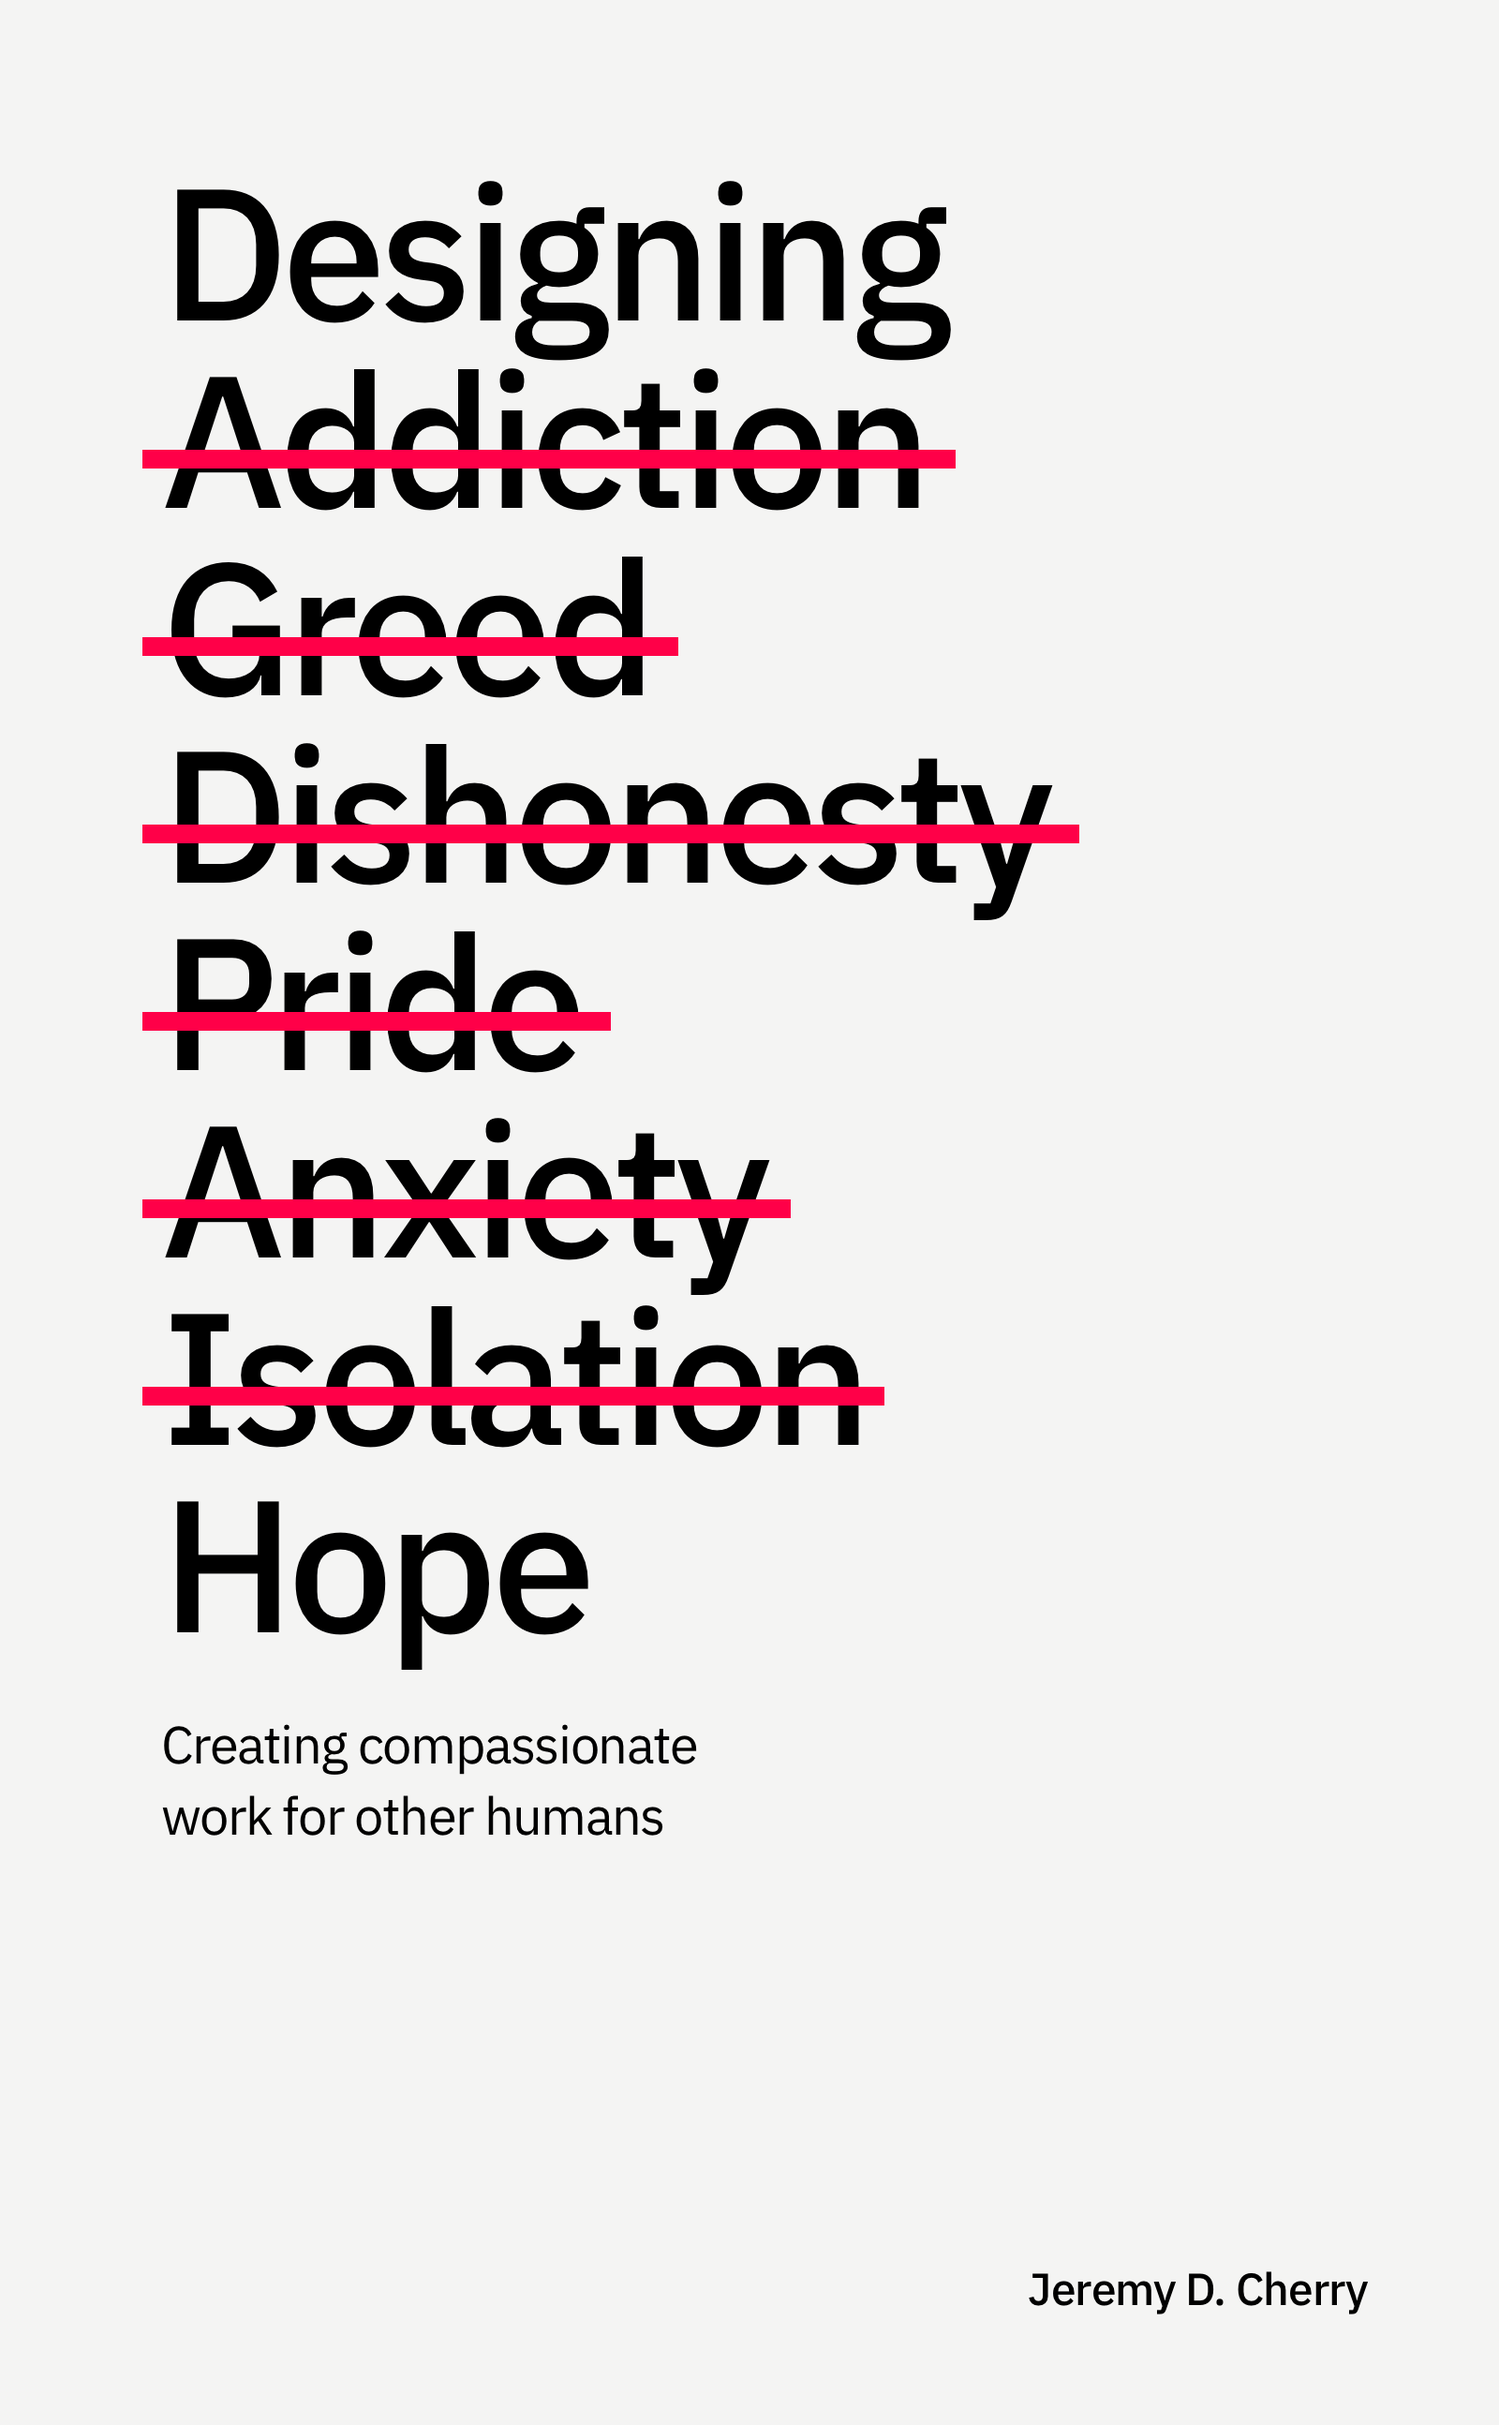
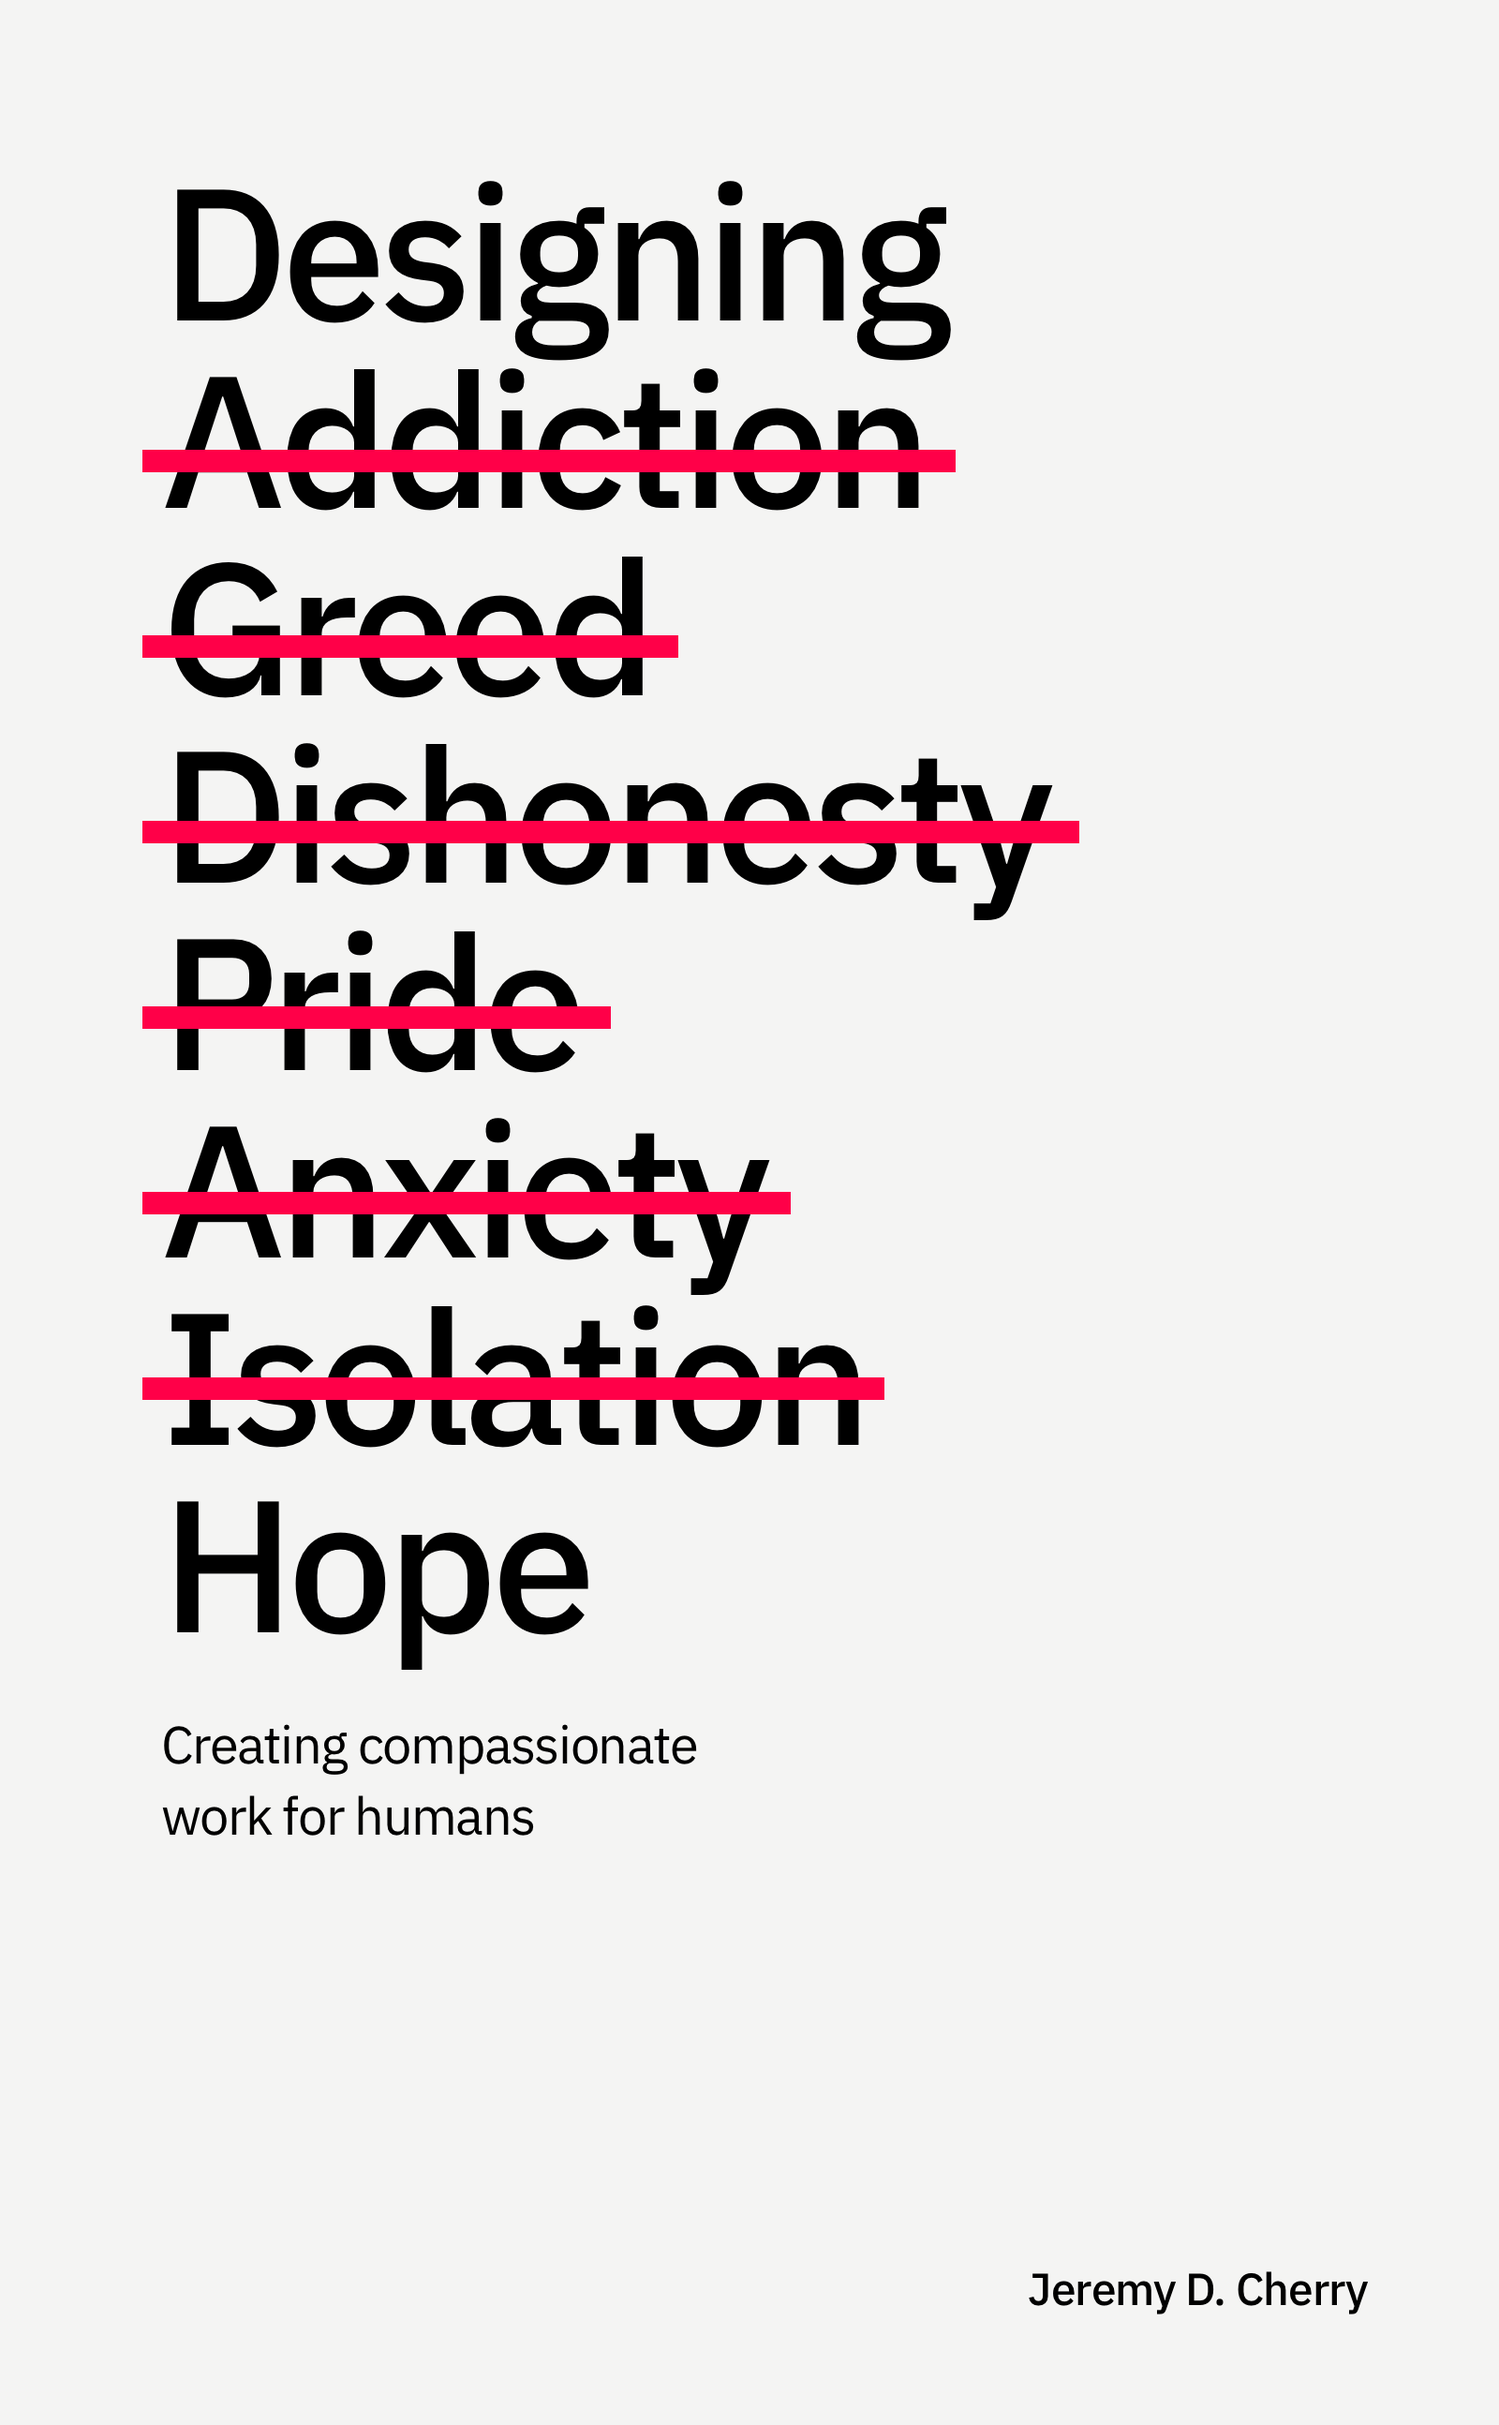
Updated copy

Changed region(s): [[0.0938, 0.5564, 0.5938, 0.5873], [0.25, 0.7419, 0.4375, 0.7728]]

diff --git a/_site/index.html b/_site/index.html
@@ -31,7 +31,7 @@
     <div class="landing">
         <h1>Designing Hope</h1>
         <h2>by <a href="https://jeremydcherry.com" class="author-link">Jeremy D. Cherry</a></h2>
-        <em>Designing Hope</em> is a book that explores creating compassionate work for other humans. It defines a framework that creates hope by practicing in an ecosystem, honoring that community with its solutions and sharing in the responsibility of its outcomes. It’s equal parts manifesto and practical guide. It lives wherever you live, it’s free, and you can start reading it any time you’d like.  In short, if you create things for others <em>(you do)</em>, this book is for you.<br />
+        <em>Designing Hope</em> is a book that explores creating compassionate work for humans. It defines a framework that creates hope by practicing in an ecosystem, honoring that community with its solutions and sharing in the responsibility of its outcomes. It’s equal parts manifesto and practical guide. It aspires to be less about technical expertise and more about transformational praxis. In short, if you create things for others <em>(you do)</em>, this book is for you.<br />
         <a href="/toc"><button>Start Reading</button></a><br />
         <a href="/download" class="resource-link download-left"><img src="/images/download.svg" class="resource-icon" />&nbsp;&nbsp;Download eBook</a>
         <a href="/listen" class="resource-link"><img src="/images/headphones.svg" class="resource-icon" />&nbsp;&nbsp;Listen to Audiobook</a><br />

diff --git a/_site/listen.html b/_site/listen.html
@@ -28,7 +28,7 @@
   <div class="column right">
     <div class="download-copy">
   	 <h2>Because sometimes you’d just rather listen, I feel you.</h2>
-  	 If you'd prefer to listen to <em>Designing Hope</em>, download the audiobook below. It’s read by yours truly, sorry I couldn't afford David Attenborough.<br /><br />
+  	 If you'd prefer listening to <em>Designing Hope</em>, check out the audiobook below. It’s read by yours truly, sorry I couldn't afford David Attenborough.<br /><br />
       <a href="" class="download-link"><img src="/images/headphones.svg" class="resource-icon" />&nbsp;&nbsp;&nbsp;Audio files</a><br />
       <a href="" class="download-link"><img src="/images/sound.svg" class="resource-icon" />&nbsp;&nbsp;&nbsp;Stream online</a><br />
      </div> 

diff --git a/index.md b/index.md
@@ -9,7 +9,7 @@ title: Designing Hope
     <div class="landing">
         <h1>Designing Hope</h1>
         <h2>by <a href="https://jeremydcherry.com" class="author-link">Jeremy D. Cherry</a></h2>
-        <em>Designing Hope</em> is a book that explores creating compassionate work for other humans. It defines a framework that creates hope by practicing in an ecosystem, honoring that community with its solutions and sharing in the responsibility of its outcomes. It’s equal parts manifesto and practical guide. It lives wherever you live, it’s free, and you can start reading it any time you’d like.  In short, if you create things for others <em>(you do)</em>, this book is for you.<br/>
+        <em>Designing Hope</em> is a book that explores creating compassionate work for humans. It defines a framework that creates hope by practicing in an ecosystem, honoring that community with its solutions and sharing in the responsibility of its outcomes. It’s equal parts manifesto and practical guide. It aspires to be less about technical expertise and more about transformational praxis. In short, if you create things for others <em>(you do)</em>, this book is for you.<br/>
         <a href="/toc"><button>Start Reading</button></a><br/>
         <a href="/download" class="resource-link download-left"><img src="/images/download.svg" class="resource-icon">&nbsp;&nbsp;Download eBook</a>
         <a href="/listen" class="resource-link"><img src="/images/headphones.svg" class="resource-icon">&nbsp;&nbsp;Listen to Audiobook</a><br/>

diff --git a/content/about.md b/content/about.md
@@ -12,7 +12,7 @@ title: 'About'
   <div class="column right">
   	<img src="/images/book-image.jpg" class="book-image">
   	<h2>A better way is possible.</h2>
-  	<em>Designing Hope</em> is a book that explores creating compassionate work for other humans. It defines a framework that creates hope by practicing in an ecosystem, honoring that community with its solutions and sharing in the responsibility of its outcomes. It’s equal parts manifesto and practical guide. It lives wherever you live, it’s free, and you can start reading it any time you’d like.  In short, if you create things for others <em>(you do)</em>, this book is for you.<br/>
+  	<em>Designing Hope</em> is a book that explores creating compassionate work for humans. It defines a framework that creates hope by practicing in an ecosystem, honoring that community with its solutions and sharing in the responsibility of its outcomes. It’s equal parts manifesto and practical guide. It aspires to be less about technical expertise and more about transformational praxis. In short, if you create things for others <em>(you do)</em>, this book is for you.<br/>
   	<a href="/foreword"><button>Start Reading</button></a><br/>
   	<a href="/download" class="resource-link download-left"><img src="/images/download.svg" class="resource-icon">&nbsp;&nbsp;Download eBook</a>
     <a href="/listen" class="resource-link"><img src="/images/headphones.svg" class="resource-icon">&nbsp;&nbsp;Listen to Audiobook</a><br/><br/>

diff --git a/content/listen.md b/content/listen.md
@@ -12,7 +12,7 @@ title: 'Listen'
   <div class="column right">
     <div class="download-copy">
   	 <h2>Because sometimes you’d just rather listen, I feel you.</h2>
-  	 If you'd prefer to listen to <em>Designing Hope</em>, download the audiobook below. It’s read by yours truly, sorry I couldn't afford David Attenborough.<br/><br/>
+  	 If you'd prefer listening to <em>Designing Hope</em>, check out the audiobook below. It’s read by yours truly, sorry I couldn't afford David Attenborough.<br/><br/>
       <a href="" class="download-link"><img src="/images/headphones.svg" class="resource-icon">&nbsp;&nbsp;&nbsp;Audio files</a><br/>
       <a href="" class="download-link"><img src="/images/sound.svg" class="resource-icon">&nbsp;&nbsp;&nbsp;Stream online</a><br/>
      </div> 
